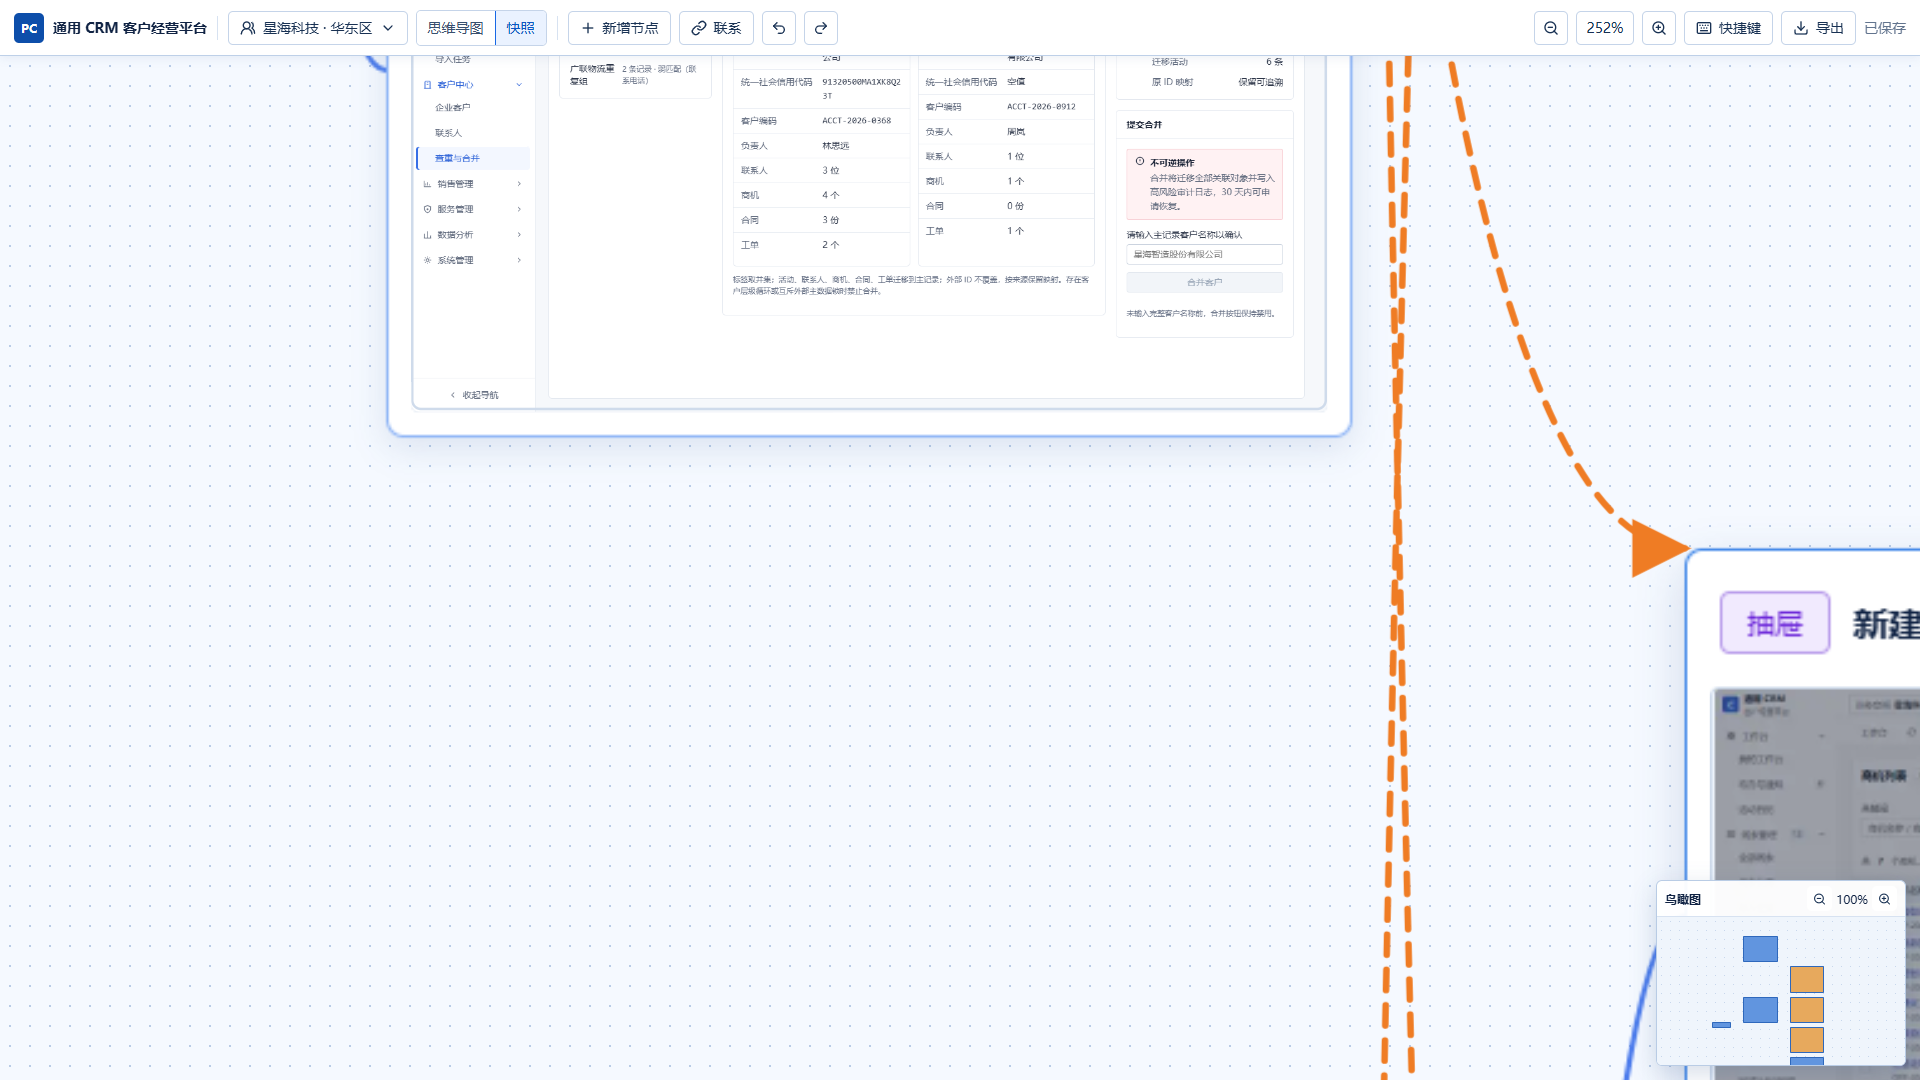
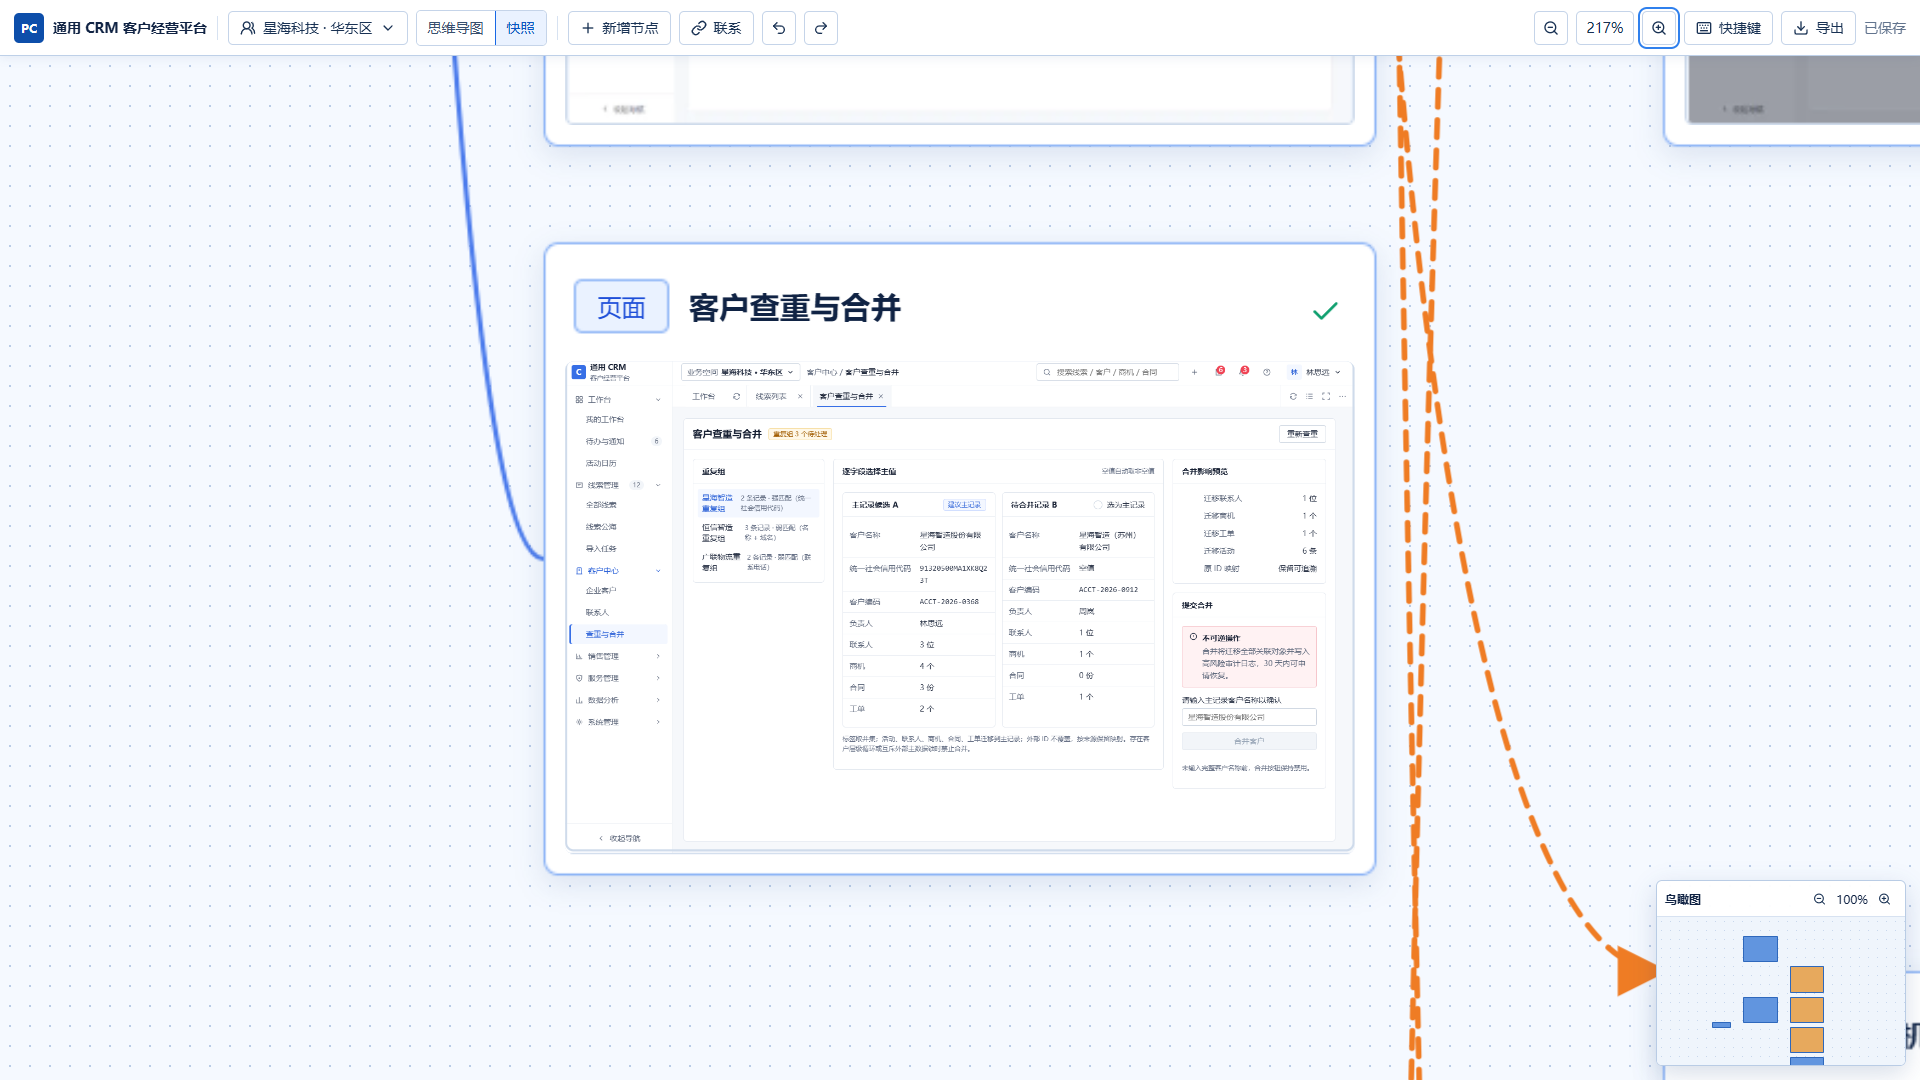
修正放大加载截图取景，关联能力并入节点编辑章节

diff --git a/README.md b/README.md
@@ -55,15 +55,11 @@ Prototype Canvas 把已有原型通读一遍，生成一张可导航的画布：
 
 ![双击进入原型页面](./docs/images/07-open-prototype.png)
 
-### 关联任意交互：不只是页面
-
-节点可以关联任意页面与交互：普通页面、业务标签页、抽屉、弹窗、对话框、底部面板、气泡浮层、表单步骤、页面状态都能成为关联目标。关联记录保存多重定位信息（语义选择器、可访问名称、有限结构路径），原型元素顺序变化后仍能重新找到；重新定位时只要在原型里点一遍，系统会记录路径并验证能否真正到达。
-
-一个节点在不同用户类型下可以有不同关联，多业务空间互不影响。
-
 ### 节点编辑：在画布里改结构、写说明
 
 选中节点即可修改页面名称、节点类型和页面说明。说明支持富文本，保存后随画布一起交付；节点也能新增、拖动换层级、复制子树或删除。
+
+每个节点都可以关联任意页面与交互——普通页面、业务标签页、抽屉、弹窗、对话框、底部面板、气泡浮层、表单步骤、页面状态都能作为关联目标，节点也可以完全不关联。关联保存多重定位信息（语义选择器、可访问名称、有限结构路径），原型元素顺序变化后仍能重新找到；重新定位时只要在原型里点一遍，系统会记录路径并验证能不能真正走到。同一个节点在不同用户类型下可以有不同的关联，多业务空间互不影响。
 
 ![节点编辑](./docs/images/03-node-editing.png)
 
